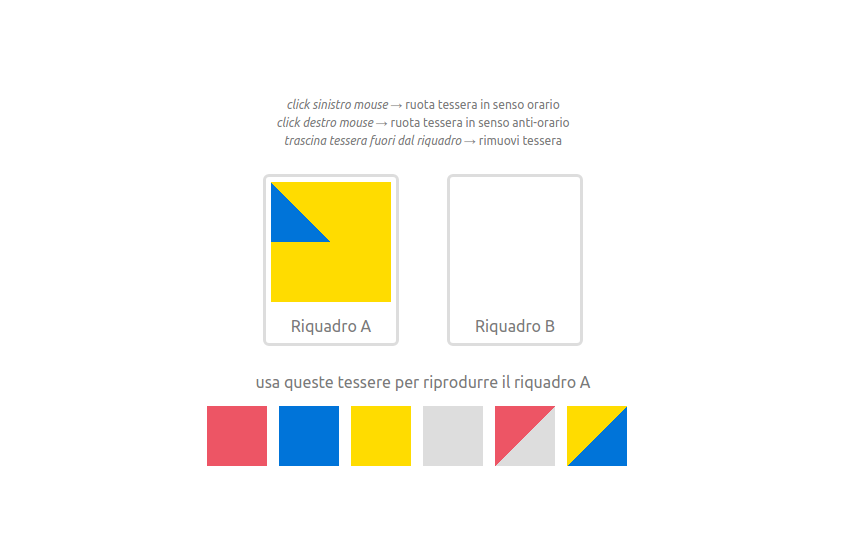
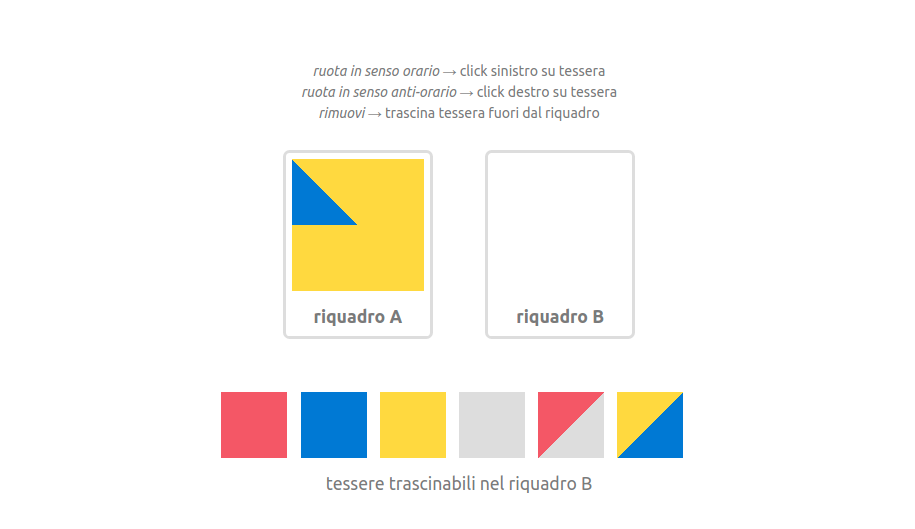
update task koh

Changed region(s): [[0.3073, 0.121, 0.7069, 0.6654], [0.2151, 0.6957, 0.7683, 0.9376]]

diff --git a/src/views/tasks/koh/koh-item.vue b/src/views/tasks/koh/koh-item.vue
@@ -33,7 +33,7 @@
                   :figure-tiles="itemData.endFigure.figureTiles"
                 />
               </div>
-              <p class="mt-3 has-text-grey has-text-centered">Riquadro A</p>
+              <p class="mt-3 has-text-grey has-text-weight-bold has-text-centered">riquadro A</p>
             </div>
             <div class="figure-wrapper ml-5">
               <div class="figure-container is-flex">
@@ -46,13 +46,15 @@
                   @tile-rotated="onTileRotated"
                 />
               </div>
-              <p class="mt-3 has-text-grey has-text-centered">Riquadro B</p>
+              <p class="mt-3 has-text-grey has-text-weight-bold has-text-centered">riquadro B</p>
             </div>
           </div>
-          <koh-reference-tiles
-            :is-locked="userFigureIsCorrect"
-            @tile-dragged="onTileDragged"
-          />
+          <div class="mt-5">
+            <koh-reference-tiles
+              :is-locked="userFigureIsCorrect"
+              @tile-dragged="onTileDragged"
+            />
+          </div>
         </div>
         <slot name="explanation" :item-data="itemData" />
       </item-container>

diff --git a/src/setup/tasks/koh-setup.js b/src/setup/tasks/koh-setup.js
@@ -204,9 +204,10 @@ const blocks = [
           images: [
             {
               src: "koh/fig1.png",
-              description: `In alto, è presentata una sequenza di tessere con l'ultima da 
-                indovinare; In basso, sono elencati i numeri da trascinare 
-                sulle facce della tessera mancante.`,
+              description: `A sinistra, il riquadro A è riempito di tessere  
+                colorate. Il riquadro B (inizialmente vuoto) deve essere
+                riempito con le tessere a disposizione, eventualmente ruotate,
+                per riprodurre fedelmente la figura del riquadro A.`,
             },
           ],
           actions: 0,

diff --git a/src/views/tasks/koh/_components/koh-reference-tiles.vue b/src/views/tasks/koh/_components/koh-reference-tiles.vue
@@ -1,7 +1,4 @@
 <template>
-  <p class="has-text-centered has-text-grey mb-3">
-    usa queste tessere per riprodurre il riquadro A
-  </p>
   <div id="reference-tiles" class="is-flex is-justify-content-center">
     <koh-tile
       v-for="tile in referenceTiles"
@@ -10,6 +7,9 @@
       class="mr-3"
     />
   </div>
+  <p class="has-text-centered has-text-grey mt-3">
+    tessere trascinabili nel riquadro B
+  </p>
 </template>
 
 <script>
